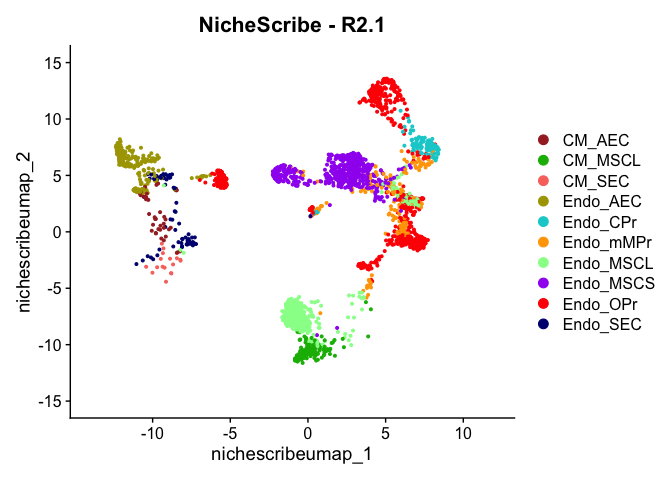
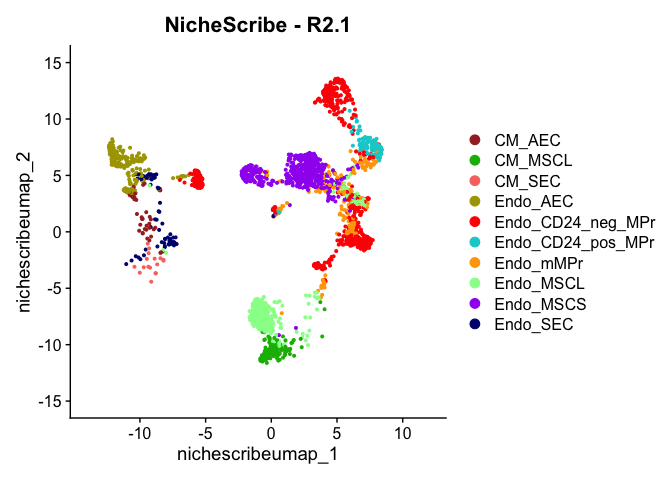
Updated readme to v0.3.0

diff --git a/README.md b/README.md
@@ -88,20 +88,20 @@ table(seu$nonhematopoietic_pred)
 #>             3348             2569
 table(seu$hash_label_pred)
 #> 
-#>    CM_AEC   CM_MSCL    CM_SEC  Endo_AEC  Endo_CPr Endo_mMPr Endo_MSCL Endo_MSCS 
-#>        41       155        20       223       103       192       526       550 
-#>  Endo_OPr  Endo_SEC 
-#>       688        71
+#>            CM_AEC           CM_MSCL            CM_SEC          Endo_AEC 
+#>                41               155                20               223 
+#> Endo_CD24_neg_MPr Endo_CD24_pos_MPr         Endo_mMPr         Endo_MSCL 
+#>               688               103               192               526 
+#>         Endo_MSCS          Endo_SEC 
+#>               550                71
 table(seu$manual_annot_pred)
 #> 
-#>             AEC         CM_MSCL    CM_Type_H_EC   CM_Type_L_SEC            CPr1 
-#>              56             170              26              27             153 
-#>            CPr2         Doublet       Endo_MSCL  Endo_Type_H_EC Endo_Type_L_SEC 
-#>             191              59             431              52              31 
-#>             FPr            MSCS            OPr1            OPr2            OPr3 
-#>             144             403             197             263              14 
-#>      Osteo_MSCL        Pericyte       Type_R_EC 
-#>              46             152             154
+#> Adipo_MSCL        aEC       CPr1       CPr2    Doublet        FPr       hEC1 
+#>        431         56        153        191         59        144         26 
+#>       hEC2      lsEC1      lsEC2       MSCL       MSCS       OPr1       OPr2 
+#>         52         27         31        170        403        197        263 
+#>       OPr3 Osteo_MSCL   Pericyte        rEC 
+#>         14         46        152        154
 
 # Visualize results
 NichePlot(seu, layer="R2.1")
